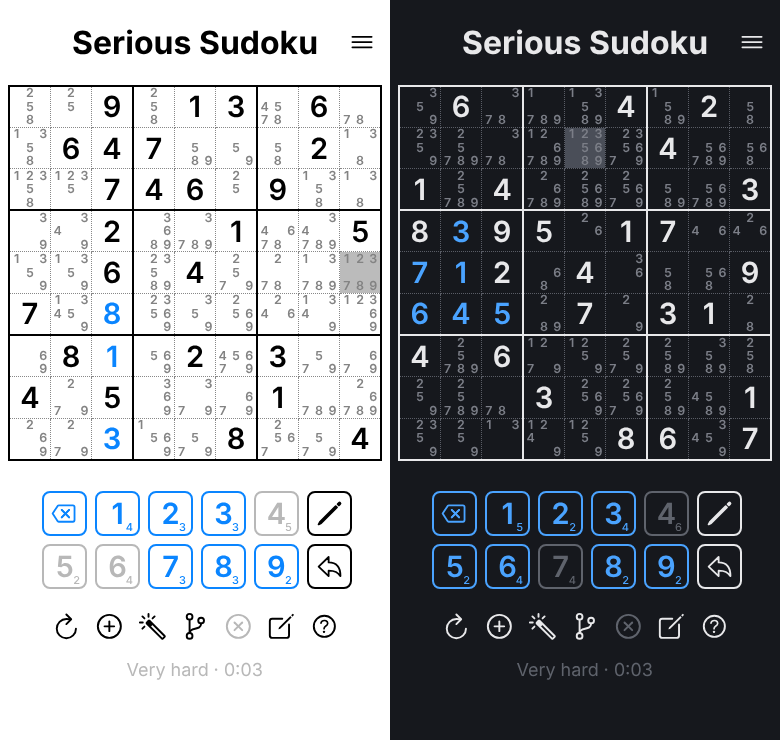
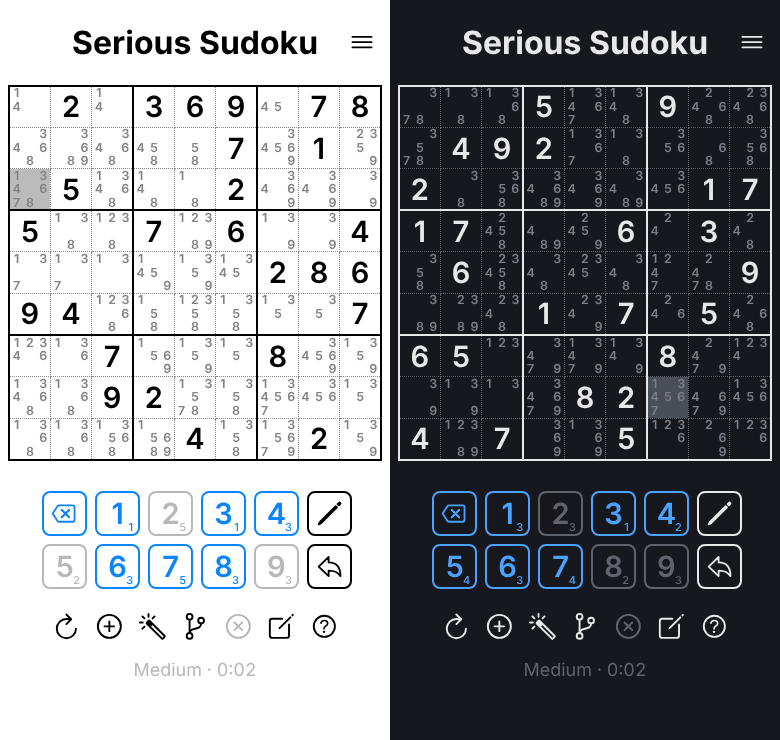
Update Serious Sudoku screenshot and description
Claude-Session: https://claude.ai/code/session_01B53Cwv95BMJczEYf1f8i8E

diff --git a/src/data/profile.ts b/src/data/profile.ts
@@ -35,7 +35,7 @@ export const projects = [
   {
     title: 'Serious Sudoku',
     description:
-      'A sudoku game written in TypeScript, also available as an Android app. Solve even the hardest sudokus by hand with nested guesses (depth-first search), pencil marks, seven difficulty levels, a personal solve-time history and light/dark mode.',
+      'A sudoku game written in TypeScript, also available as an Android app. Solve even the hardest sudokus by hand with nested guesses (depth-first search), pencil marks, seven difficulty levels, a personal solve-time history and light/dark mode. Works offline, no ads, no accounts.',
     image: '/img/serious-sudoku.png',
     links: [
       { label: 'Play', href: 'https://chrisbaumann.ch/serious-sudoku/' },
